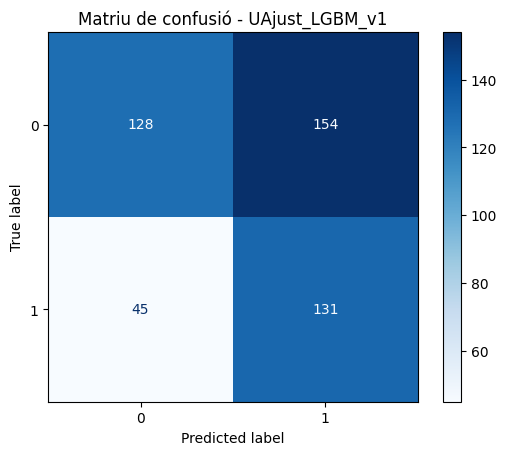
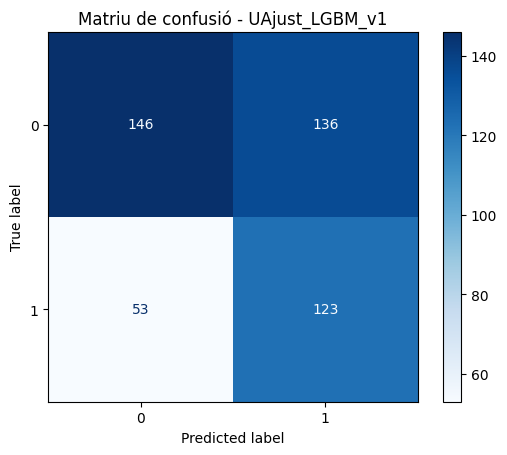
lgbm ajustat

diff --git a/src/ai_health_assistant/02_training/umbral_v1.py b/src/ai_health_assistant/02_training/umbral_v1.py
@@ -104,7 +104,7 @@ best_est, y_train_pred, train_report, y_val_pred, val_report, best_params, best_
 
 #################### OPTIMITZEM UMBRAL ####################
 
-threshold = optimize_threshold_v1(best_est, X_val, y_val)
+threshold = optimize_threshold_v1(best_est, X_val, y_val, target_recall=0.65)
 y_pred_optimized = (best_est.predict_proba(X_test)[:, 1] >= threshold).astype(int)
 
 print("\n== Classification report en TEST ==")

diff --git a/src/ai_health_assistant/02_training/umbral_v2.py b/src/ai_health_assistant/02_training/umbral_v2.py
@@ -90,7 +90,7 @@ best_est, y_train_pred, train_report, y_val_pred, val_report, best_params, best_
     search_type='grid'
 )
 
-threshold = optimize_threshold_v2(best_est, X_val, y_val)
+threshold = optimize_threshold_v2(best_est, X_val, y_val, target_recall=0.65)
 y_pred_optimized = (best_est.predict_proba(X_test)[:, 1] >= threshold).astype(int)
 
 print("\n== Classification report en TEST ==")
